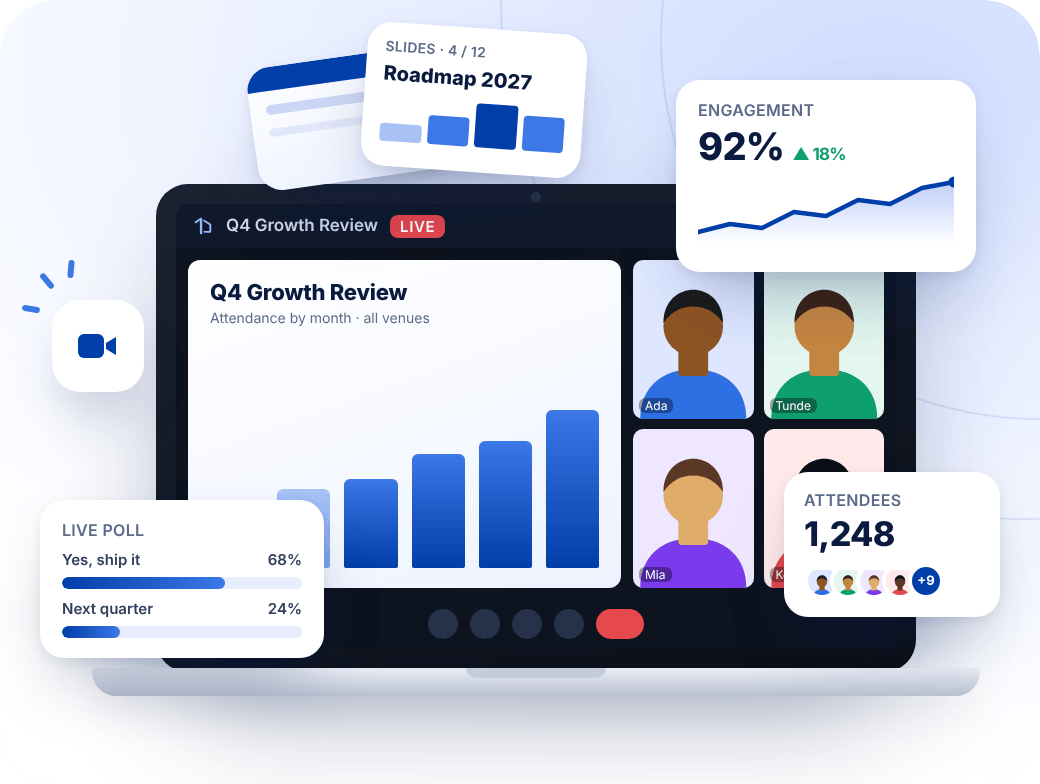
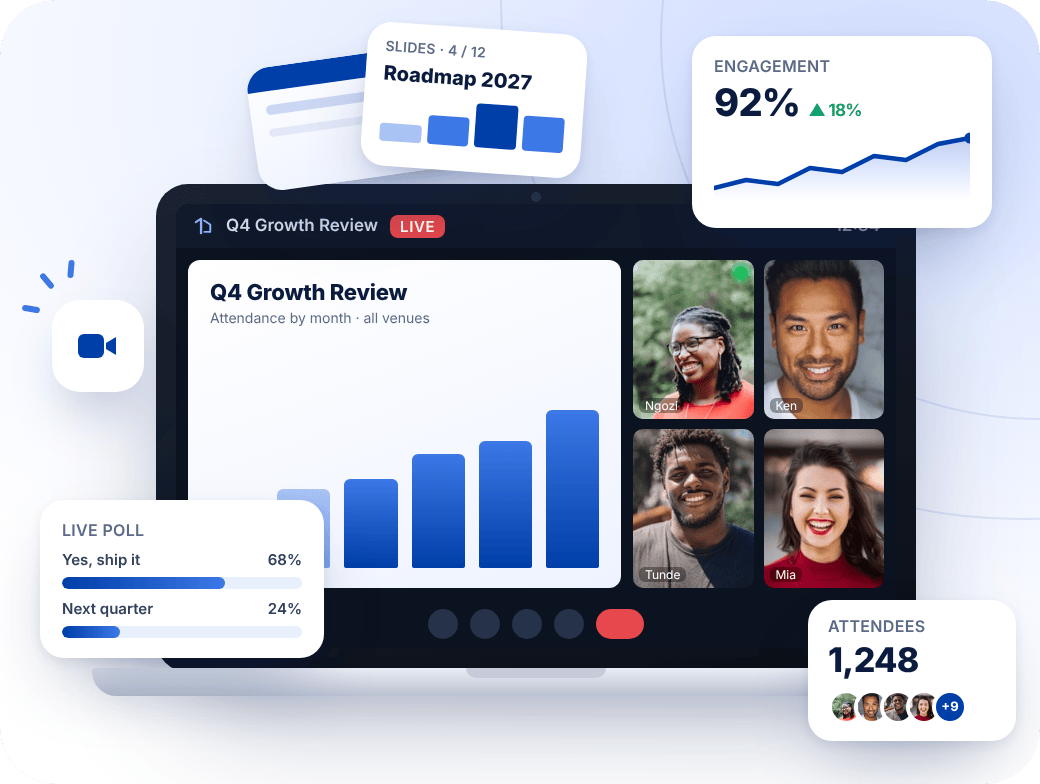
improved mail ui

Changed region(s): [[0.5846, 0.0306, 0.9846, 1.0]]

diff --git a/src/features/mail/templates.js b/src/features/mail/templates.js
@@ -6,8 +6,9 @@
  * a dark-mode palette for clients that honour prefers-color-scheme. Every value is escaped.
  *
  * Images are PNGs in public/email/ (SVG does not render in Gmail), loaded from MAIL_ASSET_URL,
- * which defaults to PUBLIC_URL when it is https, else https://1venue.live. All art is illustrated
- * (no photos). Regenerate the laptop art from scripts/email-art/hero.html (see the README there).
+ * which defaults to PUBLIC_URL when it is https, else https://1venue.live. The laptop's video
+ * tiles are licensed Unsplash photos (scripts/email-art/CREDITS.md); the rest is drawn.
+ * Regenerate the art from scripts/email-art/ (see the README there).
  */
 const esc = (s) => String(s == null ? '' : s).replace(/[&<>"']/g, (c) => ({ '&': '&amp;', '<': '&lt;', '>': '&gt;', '"': '&quot;', "'": '&#39;' }[c]));
 
@@ -15,7 +16,10 @@ const BLUE = '#003EA8';
 const NAVY = '#0B1B3F';
 const SUB = '#4A5878';
 const FAINT = '#7A87A3';
-const FONT = "-apple-system,BlinkMacSystemFont,'Segoe UI',Roboto,Helvetica,Arial,sans-serif";
+// Same stack as the site (public/css/app.css body font). Headings follow the site's scale too:
+// only a little larger than body text and weight 600, not heavy display type.
+const FONT = "Inter,ui-sans-serif,system-ui,-apple-system,BlinkMacSystemFont,'Segoe UI',Roboto,'Noto Sans',Helvetica,Arial,sans-serif";
+const ASSET_V = '2'; // bump when a PNG in public/email/ changes, so mail clients and proxies refetch it
 const TAGLINE = 'Meet · Collaborate · Achieve';
 
 function assetBase(url) {
@@ -39,12 +43,13 @@ a{color:${BLUE}}
   .stack{display:block!important;width:100%!important;max-width:100%!important}
   .hero-art{padding:22px 0 0!important}
   .hero-art img{width:100%!important;max-width:320px!important;height:auto!important;margin:0 auto!important}
-  .h1{font-size:30px!important;line-height:36px!important}
+  .h1{font-size:22px!important;line-height:29px!important}
+  .hero-bg{width:100%!important;max-width:320px!important;height:241px!important;background-size:contain!important;margin:0 auto!important}
   .tag{display:none!important}
   .brand-art{width:96px!important}
-  .brand-art img{width:96px!important;height:auto!important}
+  .brand-art .deco{width:96px!important;height:67px!important;background-size:96px 67px!important}
   .foot td{display:block!important;width:100%!important;text-align:left!important;padding-top:6px!important}
-  .code{font-size:30px!important;letter-spacing:8px!important}
+  .code{font-size:26px!important;letter-spacing:7px!important}
 }
 @media (prefers-color-scheme:dark){
   .bg{background:#0A1020!important}
@@ -61,10 +66,20 @@ a{color:${BLUE}}
 [data-ogsc] .t2{color:#B9C4DE!important}
 `;
 
+/**
+ * A purely decorative image that cannot be clicked, saved or opened: a background image on an
+ * empty block (no <img>, no link), so Gmail shows no download/zoom overlay on it. Outlook for
+ * Windows ignores CSS backgrounds, so it gets the same image through VML.
+ */
+function deco(url, w, h, cls = '') {
+  return `<!--[if mso]><v:rect xmlns:v="urn:schemas-microsoft-com:vml" fill="true" stroke="false" style="width:${w}px;height:${h}px"><v:fill type="frame" src="${url}" color="#F7F9FF" /></v:rect><![endif]-->`
+    + `<!--[if !mso]><!--><div role="presentation" aria-hidden="true" class="deco ${cls}" style="width:${w}px;height:${h}px;background-image:url('${url}');background-size:${w}px ${h}px;background-repeat:no-repeat;background-position:center;pointer-events:none;user-select:none;-webkit-user-select:none;font-size:0;line-height:0">&nbsp;</div><!--<![endif]-->`;
+}
+
 /** One icon row (link card, expiry, security note). `body` is already-escaped HTML. */
 function iconRow(src, body, { card = false } = {}) {
   const inner = `<table role="presentation" width="100%" cellpadding="0" cellspacing="0" border="0"><tr>
-<td width="40" valign="top" style="width:40px;padding:0 16px 0 0"><img src="${src}" width="40" height="40" alt="" style="width:40px;height:40px"></td>
+<td width="40" valign="top" style="width:40px;padding:0 16px 0 0">${deco(src, 40, 40)}</td>
 <td valign="middle" class="t2" style="font-family:${FONT};font-size:14px;line-height:21px;color:${SUB}">${body}</td></tr></table>`;
   return card
     ? `<tr><td class="px" style="padding:8px 40px"><table role="presentation" width="100%" cellpadding="0" cellspacing="0" border="0" style="border-collapse:separate"><tr><td class="card" style="background:#F6F9FF;border:1px solid #E1E8F6;border-radius:18px;padding:18px 20px">${inner}</td></tr></table></td></tr>`
@@ -73,20 +88,21 @@ function iconRow(src, body, { card = false } = {}) {
 
 function layout(d) {
   const { app = '1venue', url = '', title, heading, intro, button, link, showCode: code, expiryNote, note, preheader } = d;
-  const A = assetBase(url);
+  const base = assetBase(url);
+  const img = (name) => `${base}/email/${name}.png?v=${ASSET_V}`;
   const S = site(url);
   const host = S.replace(/^https?:\/\//, '');
   const h = heading || title;
 
   const buttonHtml = button && link ? `<table role="presentation" cellpadding="0" cellspacing="0" border="0" class="btn" style="margin:26px 0 0;border-collapse:separate"><tr>
-<td bgcolor="${BLUE}" style="border-radius:14px;background:${BLUE};box-shadow:0 8px 18px -8px rgba(0,62,168,.55)"><a href="${esc(link)}" target="_blank" style="display:inline-block;padding:15px 26px;font-family:${FONT};font-size:16px;line-height:20px;font-weight:600;color:#FFFFFF;text-decoration:none;border-radius:14px">${esc(button)}&nbsp;&rarr;</a></td></tr></table>` : '';
+<td bgcolor="${BLUE}" style="border-radius:14px;background:${BLUE};box-shadow:0 8px 18px -8px rgba(0,62,168,.55)"><a href="${esc(link)}" target="_blank" style="display:inline-block;padding:15px 26px;font-family:${FONT};font-size:15px;line-height:20px;font-weight:600;color:#FFFFFF;text-decoration:none;border-radius:14px">${esc(button)}&nbsp;&rarr;</a></td></tr></table>` : '';
   const codeHtml = code ? `<table role="presentation" cellpadding="0" cellspacing="0" border="0" style="margin:24px 0 0;border-collapse:separate"><tr>
-<td class="card" style="background:#FFFFFF;border:1px solid #D7E2F7;border-radius:16px;padding:14px 22px"><span class="code t1" style="font-family:'SF Mono',Menlo,Consolas,'Courier New',monospace;font-size:34px;line-height:40px;font-weight:700;letter-spacing:10px;color:${NAVY}">${esc(code)}</span></td></tr></table>` : '';
+<td class="card" style="background:#FFFFFF;border:1px solid #D7E2F7;border-radius:16px;padding:14px 22px"><span class="code t1" style="font-family:'SF Mono',Menlo,Consolas,'Courier New',monospace;font-size:30px;line-height:38px;font-weight:600;letter-spacing:9px;color:${NAVY}">${esc(code)}</span></td></tr></table>` : '';
 
   const rows = [];
-  if (button && link) rows.push(iconRow(`${A}/email/i-link.png`, `Or paste this link into your browser:<br><a class="lnk" href="${esc(link)}" target="_blank" style="color:${BLUE};text-decoration:underline;word-break:break-all;font-size:13px;line-height:20px">${esc(link)}</a>`, { card: true }));
-  if (expiryNote) rows.push(iconRow(`${A}/email/i-time.png`, esc(expiryNote)));
-  if (note) rows.push(iconRow(`${A}/email/${note.icon || 'i-shield'}.png`, esc(note.text)));
+  if (button && link) rows.push(iconRow(img('i-link'), `Or paste this link into your browser:<br><a class="lnk" href="${esc(link)}" target="_blank" style="color:${BLUE};text-decoration:underline;word-break:break-all;font-size:13px;line-height:20px">${esc(link)}</a>`, { card: true }));
+  if (expiryNote) rows.push(iconRow(img('i-time'), esc(expiryNote)));
+  if (note) rows.push(iconRow(img(note.icon || 'i-shield'), esc(note.text)));
 
   const html = `<!doctype html>
 <html lang="en" xmlns="http://www.w3.org/1999/xhtml" xmlns:v="urn:schemas-microsoft-com:vml" xmlns:o="urn:schemas-microsoft-com:office:office">
@@ -105,8 +121,8 @@ function layout(d) {
 <tr><td class="px" style="padding:30px 40px 22px">
   <table role="presentation" width="100%" cellpadding="0" cellspacing="0" border="0"><tr>
     <td valign="middle"><a href="${esc(S)}" target="_blank" style="text-decoration:none"><table role="presentation" cellpadding="0" cellspacing="0" border="0"><tr>
-      <td valign="middle" style="padding:0 10px 0 0"><img src="${A}/email/mark.png" width="40" height="40" alt="" style="width:40px;height:40px;border-radius:11px"></td>
-      <td valign="middle" class="t1" style="font-family:${FONT};font-size:25px;line-height:28px;font-weight:800;letter-spacing:-0.5px;color:${NAVY}">${esc(app)}</td>
+      <td valign="middle" style="padding:0 10px 0 0"><img src="${img('mark')}" width="36" height="36" alt="" style="width:36px;height:36px;border-radius:10px"></td>
+      <td valign="middle" class="t1" style="font-family:${FONT};font-size:19px;line-height:24px;font-weight:600;letter-spacing:-0.2px;color:${NAVY}">${esc(app)}</td>
     </tr></table></a></td>
     <td valign="middle" align="right" class="tag t2" style="font-family:${FONT};font-size:12px;line-height:16px;color:${SUB};white-space:nowrap">${esc(TAGLINE)}</td>
   </tr></table>
@@ -116,11 +132,11 @@ function layout(d) {
 <tr><td class="px" style="padding:30px 40px 14px">
   <table role="presentation" width="100%" cellpadding="0" cellspacing="0" border="0"><tr>
     <td class="stack" valign="middle" width="270" style="width:270px">
-      <h1 class="h1 t1" style="margin:0;font-family:${FONT};font-size:34px;line-height:40px;font-weight:800;letter-spacing:-0.8px;color:${NAVY}">${esc(h)}</h1>
-      <p class="t2" style="margin:16px 0 0;font-family:${FONT};font-size:16px;line-height:25px;color:${SUB}">${esc(intro)}</p>
+      <h1 class="h1 t1" style="margin:0;font-family:${FONT};font-size:24px;line-height:31px;font-weight:600;letter-spacing:-0.2px;color:${NAVY}">${esc(h)}</h1>
+      <p class="t2" style="margin:12px 0 0;font-family:${FONT};font-size:15px;line-height:24px;color:${SUB}">${esc(intro)}</p>
       ${codeHtml}${buttonHtml}
     </td>
-    <td class="stack hero-art" valign="middle" align="right" width="250" style="width:250px;padding:0 0 0 0"><img src="${A}/email/hero.png" width="250" height="188" alt="1venue on a laptop: a live meeting with slides, video tiles, a live poll and engagement stats" style="width:250px;height:188px"></td>
+    <td class="stack hero-art" valign="middle" align="right" width="250" style="width:250px;padding:0">${deco(img('hero'), 250, 188, 'hero-bg')}</td>
   </tr></table>
 </td></tr>
 
@@ -130,11 +146,11 @@ ${rows.join('\n')}
   <table role="presentation" width="100%" cellpadding="0" cellspacing="0" border="0" style="border-collapse:separate"><tr><td class="brand" style="background:#E7EEFF;background-image:linear-gradient(120deg,#EDF3FF 0%,#DDE7FF 100%);border-radius:22px;padding:24px 26px">
     <table role="presentation" width="100%" cellpadding="0" cellspacing="0" border="0"><tr>
       <td valign="middle">
-        <div class="t1" style="font-family:${FONT};font-size:26px;line-height:30px;font-weight:800;letter-spacing:-0.5px;color:${NAVY}">${esc(app)}</div>
-        <div class="t2" style="margin:8px 0 0;font-family:${FONT};font-size:15px;line-height:22px;color:${SUB};max-width:250px">Your premium meeting platform for meaningful connections.</div>
+        <div class="t1" style="font-family:${FONT};font-size:19px;line-height:24px;font-weight:600;letter-spacing:-0.2px;color:${NAVY}">${esc(app)}</div>
+        <div class="t2" style="margin:6px 0 0;font-family:${FONT};font-size:15px;line-height:22px;color:${SUB};max-width:250px">Your premium meeting platform for meaningful connections.</div>
         <div style="margin:14px 0 0;width:44px;height:3px;border-radius:3px;background:${BLUE};line-height:3px;font-size:0">&nbsp;</div>
       </td>
-      <td valign="middle" align="right" width="150" class="brand-art" style="width:150px"><img src="${A}/email/people.png" width="150" height="104" alt="" style="width:150px;height:104px"></td>
+      <td valign="middle" align="right" width="150" class="brand-art" style="width:150px">${deco(img('people'), 150, 104)}</td>
     </tr></table>
   </td></tr></table>
 </td></tr>

diff --git a/scripts/email-art/hero.html b/scripts/email-art/hero.html
@@ -1,6 +1,6 @@
 <!doctype html><html><head><meta charset="utf-8"><style>
 *{box-sizing:border-box;margin:0;padding:0}
-html,body{width:520px;height:392px;background:transparent;font-family:'Inter','Segoe UI',Roboto,Helvetica,Arial,sans-serif}
+html,body{width:520px;height:392px;background:transparent;font-family:'Inter',ui-sans-serif,system-ui,-apple-system,'Segoe UI',Roboto,Helvetica,Arial,sans-serif}
 .stage{position:relative;width:520px;height:392px;border-radius:28px;overflow:hidden;
  background:radial-gradient(120% 90% at 85% 10%,#cfdcff 0%,#e7eeff 38%,#f5f8ff 70%,#ffffff 100%)}
 .arc{position:absolute;border-radius:50%;border:1px solid rgba(0,62,168,.10)}
@@ -21,7 +21,9 @@ html,body{width:520px;height:392px;background:transparent;font-family:'Inter','S
 .bars i.l{background:linear-gradient(#a9c3f5,#7aa0ea)}
 .grid{flex:1;display:grid;grid-template-columns:1fr 1fr;gap:5px}
 .tile{border-radius:5px;overflow:hidden;position:relative}
-.tile .nm{position:absolute;left:3px;bottom:3px;font-size:6px;color:#fff;background:rgba(0,0,0,.35);padding:0 3px;border-radius:3px}
+.tile .spk{position:absolute;right:3px;top:3px;width:7px;height:7px;border-radius:50%;background:#22c55e;box-shadow:0 0 0 2px rgba(34,197,94,.35)}
+.tile img{position:absolute;inset:0}
+.tile .nm{z-index:1;position:absolute;left:3px;bottom:3px;font-size:6px;color:#fff;background:rgba(0,0,0,.35);padding:0 3px;border-radius:3px}
 .ctl{height:24px;display:flex;justify-content:center;align-items:center;gap:6px}
 .ctl b{width:15px;height:15px;border-radius:50%;background:#26324a;display:block}
 .ctl b.end{width:24px;border-radius:8px;background:#e5484d}
@@ -49,7 +51,7 @@ html,body{width:520px;height:392px;background:transparent;font-family:'Inter','S
 <div class="base"><div class="notch"></div></div>
 
 <!-- popping cards -->
-<div class="card" style="left:338px;top:40px;width:150px">
+<div class="card" style="left:346px;top:18px;width:150px">
  <div class="k">Engagement</div><div class="v">92%<span class="up">▲ 18%</span></div>
  <svg width="128" height="34" viewBox="0 0 128 34" style="margin-top:3px"><defs><linearGradient id="fg" x1="0" x2="0" y1="0" y2="1"><stop offset="0" stop-color="#3c78e6" stop-opacity=".35"/><stop offset="1" stop-color="#3c78e6" stop-opacity="0"/></linearGradient></defs>
  <path d="M0 28 L16 24 L32 26 L48 18 L64 20 L80 12 L96 14 L112 6 L128 3 L128 34 L0 34Z" fill="url(#fg)"/><path d="M0 28 L16 24 L32 26 L48 18 L64 20 L80 12 L96 14 L112 6 L128 3" fill="none" stroke="#003EA8" stroke-width="2.2" stroke-linejoin="round" stroke-linecap="round"/><circle cx="128" cy="3" r="2.8" fill="#003EA8"/></svg>
@@ -59,7 +61,7 @@ html,body{width:520px;height:392px;background:transparent;font-family:'Inter','S
  <div class="pl"><span>Yes, ship it</span><span>68%</span></div><div class="pb"><i style="width:68%"></i></div>
  <div class="pl"><span>Next quarter</span><span>24%</span></div><div class="pb"><i style="width:24%"></i></div>
 </div>
-<div class="card" style="left:392px;top:236px;width:108px;padding:9px 10px">
+<div class="card" style="left:404px;top:300px;width:104px;padding:8px 10px">
  <div class="k">Attendees</div><div class="v" style="font-size:17px">1,248</div>
  <div style="display:flex;margin-top:4px" id="faces"></div>
 </div>
@@ -75,9 +77,9 @@ html,body{width:520px;height:392px;background:transparent;font-family:'Inter','S
 </div>
 </div>
 <script>
-const people=[['#8d5524','#1b1b1b','#2f6fe4','#dfe8ff'],['#c68642','#3b2314','#0e9f6e','#e3f7ef'],['#e0ac69','#5a3825','#7c3aed','#efe7ff'],['#5c3a21','#0f0f0f','#e5484d','#ffe9ea']];
-const names=['Ada','Tunde','Mia','Kemi'];
-function av(p,s){const [skin,hair,shirt,bg]=p;return '<svg viewBox="0 0 60 48" width="100%" height="100%" preserveAspectRatio="xMidYMid slice"><rect width="60" height="48" fill="'+bg+'"/><path d="M14 48c0-10 7-15 16-15s16 5 16 15z" fill="'+shirt+'"/><rect x="25.5" y="26" width="9" height="9" rx="1" fill="'+skin+'"/><circle cx="30" cy="20" r="9" fill="'+skin+'"/><path d="M21 19c0-7 5-10 9-10s9 3 9 10c-2-3-5-5-9-5s-7 2-9 5z" fill="'+hair+'"/></svg>'}
-document.getElementById('grid').innerHTML=people.map((p,i)=>'<div class="tile">'+av(p)+'<span class="nm">'+names[i]+'</span></div>').join('');
-document.getElementById('faces').innerHTML=people.map((p,i)=>'<div style="width:18px;height:18px;border-radius:50%;overflow:hidden;border:2px solid #fff;margin-left:'+(i?-5:0)+'px">'+av(p)+'</div>').join('')+'<div style="width:18px;height:18px;border-radius:50%;border:2px solid #fff;margin-left:-5px;background:#003EA8;color:#fff;font-size:6.5px;font-weight:700;display:flex;align-items:center;justify-content:center">+9</div>';
+// Real people (Unsplash License, see CREDITS.md): Ngozi and Tunde (African), Mia, Ken.
+const people=[['ngozi','Ngozi'],['ken','Ken'],['tunde','Tunde'],['mia','Mia']];
+const ph=(f,pos)=>'<img src="photos/'+f+'.jpg" alt="" style="width:100%;height:100%;object-fit:cover;object-position:'+(pos||'50% 30%')+';display:block">';
+document.getElementById('grid').innerHTML=people.map(([f,n],i)=>'<div class="tile"'+(i===0?' style="box-shadow:inset 0 0 0 2px #3c78e6"':'')+'>'+ph(f)+'<span class="nm">'+n+'</span>'+(i===0?'<span class="spk"></span>':'')+'</div>').join('');
+document.getElementById('faces').innerHTML=people.map(([f],i)=>'<div style="width:18px;height:18px;border-radius:50%;overflow:hidden;border:2px solid #fff;margin-left:'+(i?-5:0)+'px">'+ph(f,'50% 25%')+'</div>').join('')+'<div style="width:18px;height:18px;border-radius:50%;border:2px solid #fff;margin-left:-5px;background:#003EA8;color:#fff;font-size:6.5px;font-weight:700;display:flex;align-items:center;justify-content:center">+9</div>';
 </script></body></html>

diff --git a/test/mail.test.js b/test/mail.test.js
@@ -23,8 +23,20 @@ test('every template has subject, text and escaped HTML with the link', () => {
 test('emails follow the brand design: hosted PNG art, privacy + terms footer, mobile + dark mode', () => {
   for (const k of kinds) {
     const m = render(k, { app: '1venue', url: 'http://localhost:3000', name: 'Ada', link: 'https://1venue.live/x', expires: '1 hour', newEmail: 'n@ex.test', code: '123456' });
-    assert.match(m.html, /src="https:\/\/1venue\.live\/email\/mark\.png"/, k + ': site icon from https (never localhost)');
-    assert.match(m.html, /src="https:\/\/1venue\.live\/email\/hero\.png"/, k + ': laptop art');
+    assert.match(m.html, /src="https:\/\/1venue\.live\/email\/mark\.png\?v=\d+"/, k + ': site icon from https (never localhost), cache-busted');
+    assert.match(m.html, /background-image:url\('https:\/\/1venue\.live\/email\/hero\.png\?v=\d+'\)/, k + ': laptop art');
+    assert.match(m.html, /<v:fill type="frame" src="https:\/\/1venue\.live\/email\/hero\.png/, k + ': Outlook VML fallback');
+    // decoration is never an <img> or a link: only the logo is an image, and it links to the site
+    const imgs = m.html.match(/<img\b[^>]*>/g) || [];
+    assert.equal(imgs.length, 1, k + ': only the logo is an <img>');
+    assert.match(imgs[0], /mark\.png/);
+    for (const d of ['hero', 'people', 'i-link', 'i-time', 'i-shield', 'i-lock']) {
+      for (const a of m.html.match(/<a\b[\s\S]*?<\/a>/g) || []) assert.ok(!a.includes(`/email/${d}.png`), `${k}: ${d} is not inside a link`);
+    }
+    assert.match(m.html, /class="deco[^"]*"[^>]*pointer-events:none/, k + ': decoration ignores clicks');
+    assert.match(m.html, /font-size:24px;line-height:31px;font-weight:600/, k + ': heading in the site scale');
+    assert.doesNotMatch(m.html, /font-weight:(7|8|9)00/, k + ': no heavy display weights');
+    assert.match(m.html, /font-family:Inter,ui-sans-serif,system-ui/, k + ': site font stack');
     assert.doesNotMatch(m.html, /\.svg"/, k + ': no SVG images (Gmail drops them)');
     assert.match(m.html, /href="http:\/\/localhost:3000\/privacy"[^>]*>Privacy Policy</, k + ': footer links follow PUBLIC_URL');
     assert.match(m.html, /href="http:\/\/localhost:3000\/terms"[^>]*>Terms of Service</, k);
@@ -39,10 +51,10 @@ test('emails follow the brand design: hosted PNG art, privacy + terms footer, mo
   const path = require('node:path');
   for (const f of ['hero', 'mark', 'people', 'i-link', 'i-time', 'i-shield', 'i-lock']) {
     const p = path.join(__dirname, '..', 'public', 'email', f + '.png');
-    assert.ok(fs.existsSync(p), f); assert.ok(fs.statSync(p).size < 200 * 1024, f + ' under 200 KB');
+    assert.ok(fs.existsSync(p), f); assert.ok(fs.statSync(p).size < (f === 'hero' ? 150 : 200) * 1024, f + ' small enough');
   }
   const saved = process.env.MAIL_ASSET_URL; process.env.MAIL_ASSET_URL = 'https://cdn.example.com/';
-  try { assert.match(render('verify', { app: '1venue', url: 'https://1venue.live', link: 'x', expires: '1 day' }).html, /src="https:\/\/cdn\.example\.com\/email\/hero\.png"/); } finally { if (saved === undefined) delete process.env.MAIL_ASSET_URL; else process.env.MAIL_ASSET_URL = saved; }
+  try { assert.match(render('verify', { app: '1venue', url: 'https://1venue.live', link: 'x', expires: '1 day' }).html, /url\('https:\/\/cdn\.example\.com\/email\/hero\.png\?v=\d+'\)/); } finally { if (saved === undefined) delete process.env.MAIL_ASSET_URL; else process.env.MAIL_ASSET_URL = saved; }
 });
 
 test('send() uses the transport with from/to/subject/text/html', async () => {

diff --git a/scripts/email-art/README.md b/scripts/email-art/README.md
@@ -1,7 +1,8 @@
 # Email art
 
 Sources for the PNGs in `public/email/` used by the transactional emails
-(`src/features/mail/templates.js`). Everything is illustrated: no photos.
+(`src/features/mail/templates.js`). The laptop's video tiles use real Unsplash photos from
+`photos/` (see [CREDITS.md](CREDITS.md)); everything else is drawn in HTML/CSS/SVG.
 
 | Source | Output | Display size |
 | --- | --- | --- |
@@ -11,15 +12,23 @@ Sources for the PNGs in `public/email/` used by the transactional emails
 | `i-*.html` | `i-link.png`, `i-time.png`, `i-shield.png`, `i-lock.png` | 40×40 |
 
 The `mark.html` and `hero.html` files embed the path from `public/brand/logo.svg`. If the logo
-changes, paste the new path in. Render at 2x and compress (keep each file under 200 KB):
+changes, paste the new path in. Render at 2x and compress (keep `hero.png` under 150 KB, the rest under 200 KB). Add
+`--virtual-time-budget=3000` so the photos load before the screenshot:
 
 ```sh
 google-chrome --headless=new --hide-scrollbars --force-device-scale-factor=2 \
   --default-background-color=00000000 --window-size=520,392 \
   --screenshot=hero.png scripts/email-art/hero.html
-pngquant --quality=80-95 --speed 1 --force --output public/email/hero.png hero.png
+pngquant --quality=70-90 --speed 1 --force --output public/email/hero.png hero.png
 ```
 
 Window sizes: hero 520×392, mark 44×44, people 150×104, icons 40×40.
 Emails load the images from `MAIL_ASSET_URL` (default: `PUBLIC_URL` when https, else
 `https://1venue.live`), so a new image is live after the next deploy.
+
+After changing any PNG, bump `ASSET_V` in `src/features/mail/templates.js` so mail clients and
+image proxies fetch the new file (URLs end in `?v=<ASSET_V>`).
+
+Decorative art (laptop, icons, brand card) is drawn as a CSS background on an empty block, not
+an `<img>`, so it can't be clicked, opened or downloaded from Gmail's hover overlay. Outlook for
+Windows gets the same image through VML. Only the logo is an `<img>` (it links to the site).

diff --git a/scripts/email-art/CREDITS.md b/scripts/email-art/CREDITS.md
@@ -1,0 +1,21 @@
+# Email art credits
+
+The video tiles and attendee faces in `public/email/hero.png` (source `hero.html`) are real
+photos from Unsplash, under the [Unsplash License](https://unsplash.com/license): free for
+commercial use, may be modified, no permission or attribution required (credit given anyway as
+a courtesy). They were cropped to head-and-shoulders (`crop=faces`, 240×200) and composited
+into the laptop at small size. The people do not endorse 1venue.
+
+| File | Name in mockup | Unsplash photo (CDN id) | Source URL |
+| --- | --- | --- | --- |
+| `photos/ngozi.jpg` | Ngozi (African woman, speaking) | `photo-1507152832244-10d45c7eda57` | https://images.unsplash.com/photo-1507152832244-10d45c7eda57 |
+| `photos/tunde.jpg` | Tunde (African man) | `photo-1522529599102-193c0d76b5b6` | https://images.unsplash.com/photo-1522529599102-193c0d76b5b6 |
+| `photos/ken.jpg` | Ken (Asian man) | `photo-1507003211169-0a1dd7228f2d` | https://images.unsplash.com/photo-1507003211169-0a1dd7228f2d |
+| `photos/mia.jpg` | Mia (white woman) | `photo-1494790108377-be9c29b29330` | https://images.unsplash.com/photo-1494790108377-be9c29b29330 |
+
+Photographer names: Unsplash's API needs a key, so they were not recorded here. Open the
+source URL (or search the id on unsplash.com) to see the photographer. Before swapping a photo,
+check that the new one is also under the Unsplash or Pexels license.
+
+Everything else in the email art (laptop, cards, icons, brand-card people icon) is drawn in
+HTML/CSS/SVG in this folder; the logo is `public/brand/logo.svg`.
